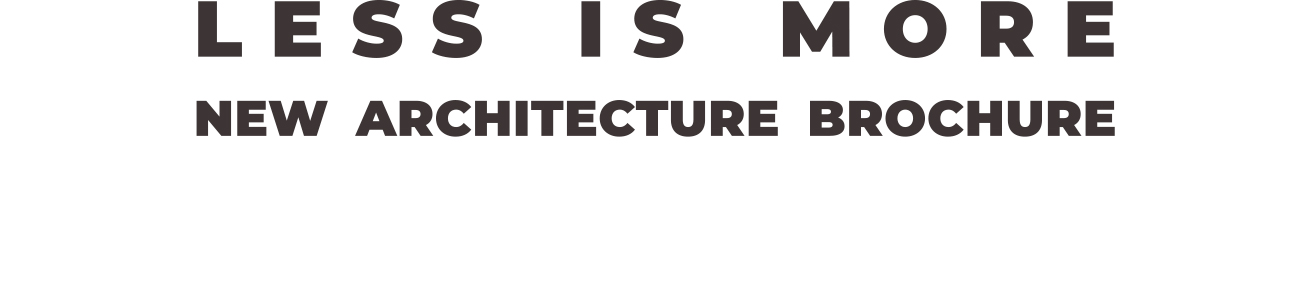
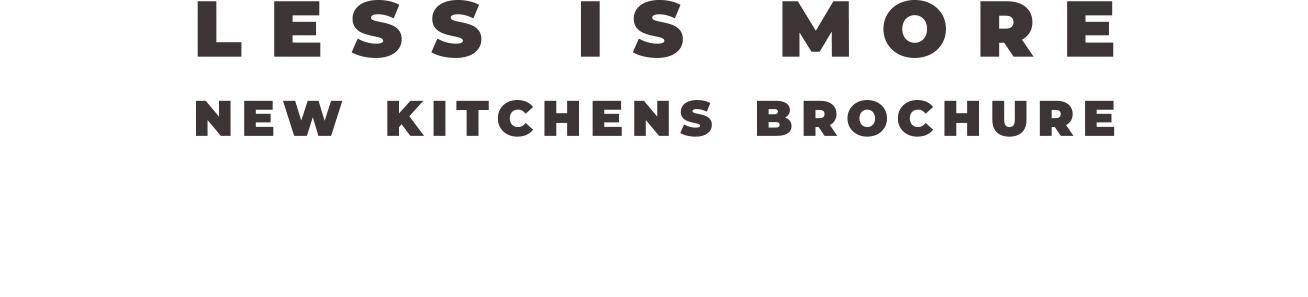
Links changes

Changed region(s): [[0.1529, 0.3333, 0.8257, 0.4848], [0.6116, 0.1212, 0.6422, 0.1515]]

diff --git a/en/index.html b/en/index.html
@@ -2,7 +2,7 @@
 <head>
 <meta charset="UTF-8">
 <meta name="viewport" content="width=device-width, initial-scale=1.0">
-<title>URBATEK | Mail Abril 2020 Folleto Arquitectura</title>
+<title>URBATEK | Mail Abril 2020 Folleto Cocinas</title>
 <style type="text/css">
 /* Client-specific Styles */
 #outlook a {
@@ -116,7 +116,7 @@ img[class="fluid-image"] {
           <tr>
             <td>
 
-              <a href="https://drive.google.com/file/d/1MJCEdKFTSJ1cpxiY80_hyGKu72vkQAtU/view">
+              <a href="https://drive.google.com/file/d/1pnP5Ass-XJfvc5xhkvDWTbqX1i3ygeM3/view">
                 <img src="https://urbatek-mail-abril-arquitectura.netlify.app/src/img1.jpg" title="ABRIL 2020 SEGUIMOS CERCA DE TI" alt="ABRIL 2020 SEGUIMOS CERCA DE TI" width="100%" height="auto" class="fluid-image" style="display:block; border:none; outline:none; text-decoration:none; color:#ffffff; font-size:16px; text-align:center; font-family: Arial, Verdana, sans-serif;" border="0">
               </a>
             </td>

diff --git a/fr/index.html b/fr/index.html
@@ -2,7 +2,7 @@
 <head>
 <meta charset="UTF-8">
 <meta name="viewport" content="width=device-width, initial-scale=1.0">
-<title>URBATEK | Mail Abril 2020 Folleto Arquitectura</title>
+<title>URBATEK | Mail Abril 2020 Folleto Cocinas</title>
 <style type="text/css">
 /* Client-specific Styles */
 #outlook a {
@@ -116,7 +116,7 @@ img[class="fluid-image"] {
           <tr>
             <td>
 
-              <a href="https://drive.google.com/file/d/1MJCEdKFTSJ1cpxiY80_hyGKu72vkQAtU/view">
+              <a href="https://drive.google.com/file/d/1pnP5Ass-XJfvc5xhkvDWTbqX1i3ygeM3/view">
                 <img src="https://urbatek-mail-abril-arquitectura.netlify.app/src/img1.jpg" title="ABRIL 2020 SEGUIMOS CERCA DE TI" alt="ABRIL 2020 SEGUIMOS CERCA DE TI" width="100%" height="auto" class="fluid-image" style="display:block; border:none; outline:none; text-decoration:none; color:#ffffff; font-size:16px; text-align:center; font-family: Arial, Verdana, sans-serif;" border="0">
               </a>
             </td>

diff --git a/index.html b/index.html
@@ -2,7 +2,7 @@
 <head>
 <meta charset="UTF-8">
 <meta name="viewport" content="width=device-width, initial-scale=1.0">
-<title>URBATEK | Mail Abril 2020 Folleto Arquitectura</title>
+<title>URBATEK | Mail Abril 2020 Folleto Cocinas</title>
 <style type="text/css">
 /* Client-specific Styles */
 #outlook a {
